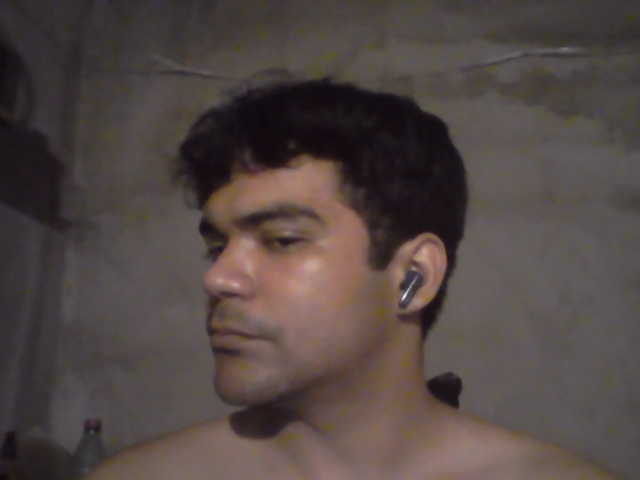
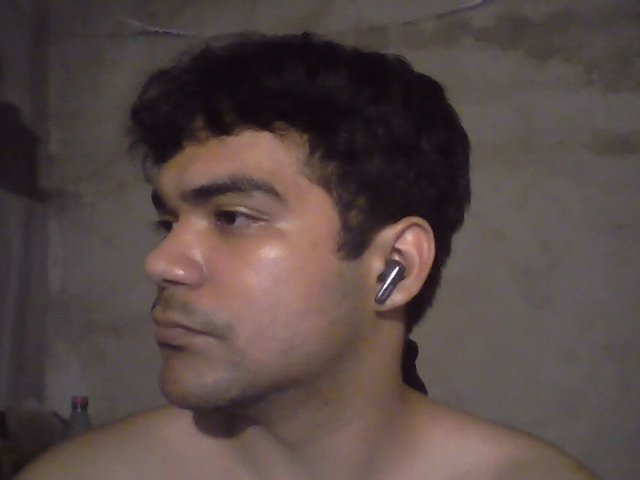
Optimizar worker registro: separar detección de recalculo
- skip_deteccion=5: detectar rostros cada 5 frames
- skip_recalculo=30: comparar cada 30 frames
- model='small' para encoding rápido
- Elimina ejecución doble que causaba cuello de botella

diff --git a/ui/workers/faceRecognitionWorker.py b/ui/workers/faceRecognitionWorker.py
@@ -273,8 +273,8 @@ class FaceRecognitionWorkerRegistro(QObject):
     def __init__(self, encodings_db=None, nombres_db=None, ids_db=None, parent=None):
         super().__init__(parent)
         self.frame_counter = 0
-        self.skip_frames = 3
-        self.skip_recalculo = 15
+        self.skip_deteccion = 5
+        self.skip_recalculo = 30
         self._running = True
 
         self.known_encodings = np.array(encodings_db) if encodings_db is not None and len(encodings_db) > 0 else np.array([])
@@ -289,7 +289,6 @@ class FaceRecognitionWorkerRegistro(QObject):
         self.last_locations = []
         self.last_labels = []
         self.last_colors = []
-        self.personas_detectadas = {}
 
     def process_frame(self, frame):
         if frame is None or not self._running:
@@ -298,19 +297,18 @@ class FaceRecognitionWorkerRegistro(QObject):
         rgb_frame = cv2.cvtColor(frame, cv2.COLOR_BGR2RGB)
         output_frame = cv2.cvtColor(rgb_frame, cv2.COLOR_RGB2BGR)
 
-        procesar_recalculo = self.frame_counter % self.skip_recalculo == 0
-        procesar_deteccion = self.frame_counter % self.skip_frames == 0
+        frame_para_recalculo = self.frame_counter % self.skip_recalculo == 0
+        frame_para_deteccion = self.frame_counter % self.skip_deteccion == 0
 
-        if procesar_deteccion or procesar_recalculo:
+        if frame_para_deteccion:
             face_locations = face_recognition.face_locations(rgb_frame, model="hog")
 
             if len(face_locations) > 0:
-                if procesar_recalculo:
-                    face_encodings = face_recognition.face_encodings(rgb_frame, face_locations, num_jitters=1, model="large")
+                if frame_para_recalculo:
+                    face_encodings = face_recognition.face_encodings(rgb_frame, face_locations, num_jitters=1, model="small")
                     self.last_locations = []
                     self.last_labels = []
                     self.last_colors = []
-                    self.personas_detectadas = {}
 
                     for loc, encoding in zip(face_locations, face_encodings):
                         distancia, nombre, persona_id = self.obtener_mejor_match(encoding)
@@ -330,16 +328,16 @@ class FaceRecognitionWorkerRegistro(QObject):
                                     if similitud_final is not None:
                                         self.persona_identificada.emit(nombre, persona_id, similitud_final)
                                         self.encoding_pesado_usado[persona_id] = True
-                                        self.personas_detectadas[persona_id] = similitud_final
                                 else:
                                     self.persona_identificada.emit(nombre, persona_id, similitud)
-                                    self.personas_detectadas[persona_id] = similitud
 
                             label = f"ID: {persona_id} ({similitud:.0f}%)"
                             color = (0, 255, 0)
                         else:
                             label = "Nuevo"
                             color = (0, 165, 255)
+                            if persona_id in self.confirmaciones:
+                                del self.confirmaciones[persona_id]
                             if self.frame_counter % (self.skip_recalculo * 2) == 0:
                                 self.persona_nueva.emit()
 
